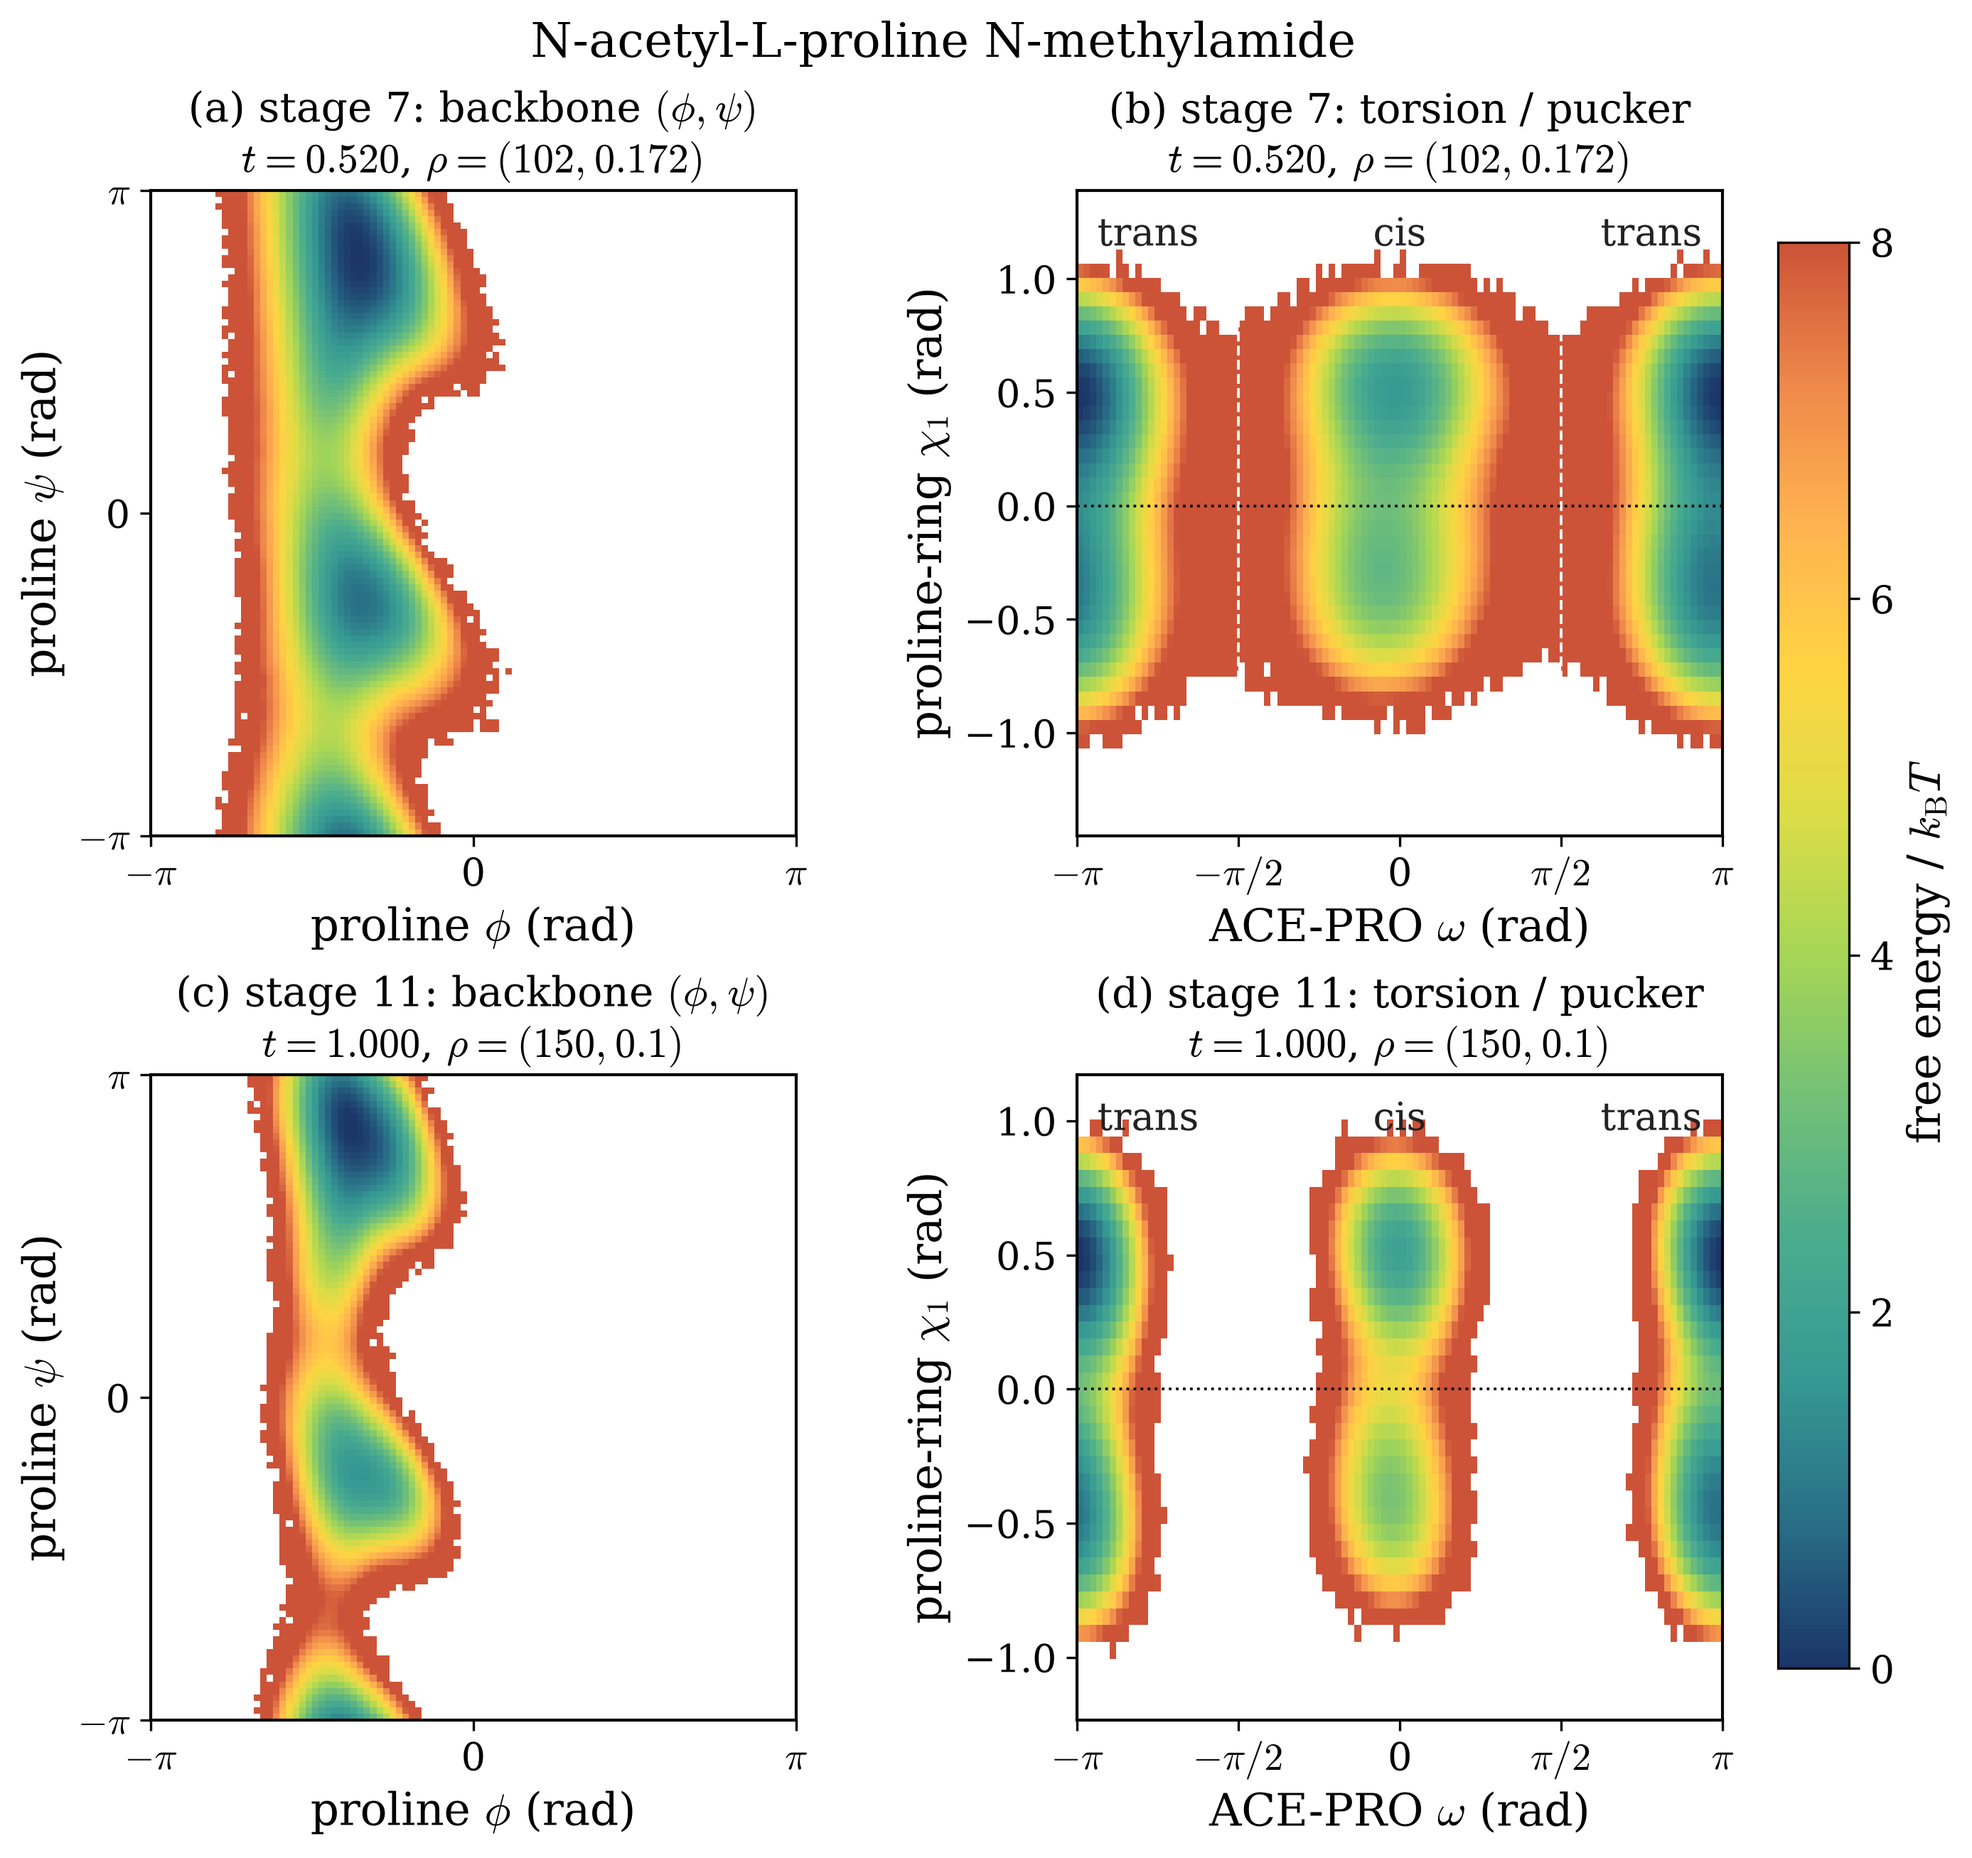
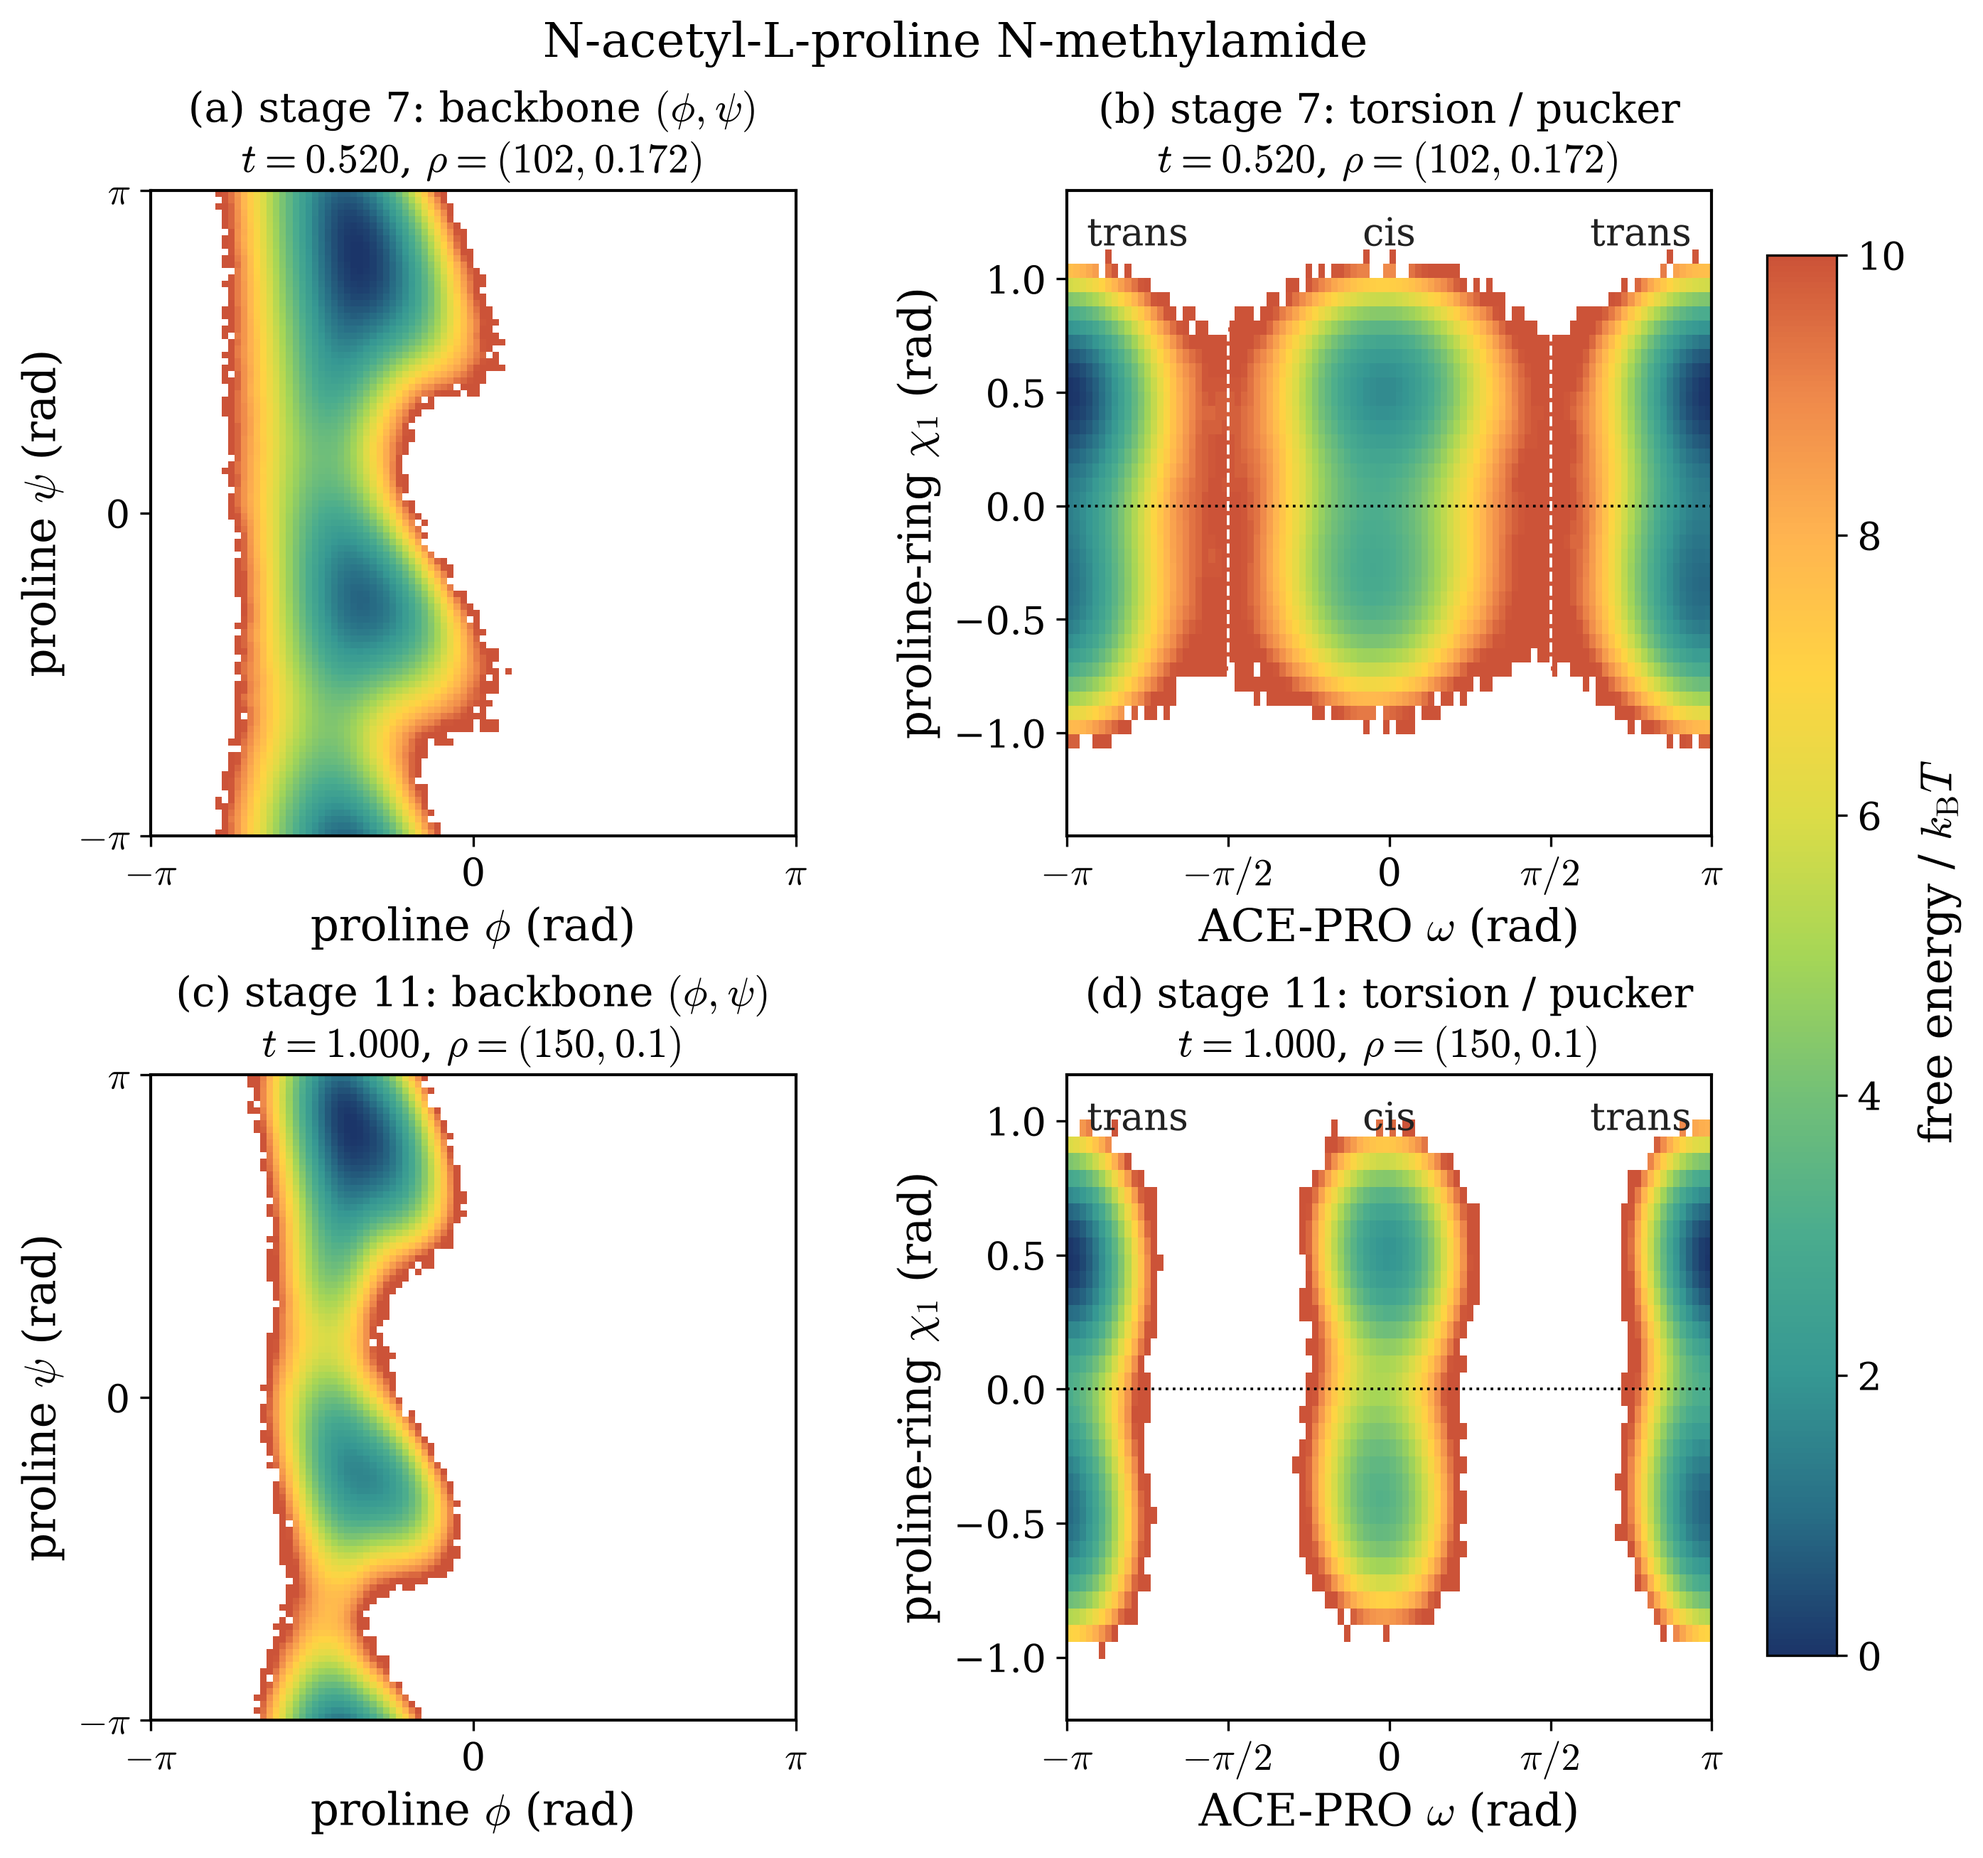
72d figure colormap change

diff --git a/Codes/Molecular_BG/chiral/ac_pro_nhme_72d/plot_conformational_landscape.py b/Codes/Molecular_BG/chiral/ac_pro_nhme_72d/plot_conformational_landscape.py
@@ -261,7 +261,7 @@ def plot_landscapes(
         figsize=(9.5, 8.6),
         layout="constrained",
     )
-    vmax = 8.0
+    vmax = 10.0
     panel_letters = ("a", "b", "c", "d")
     pucker_limits = []
     image = None
